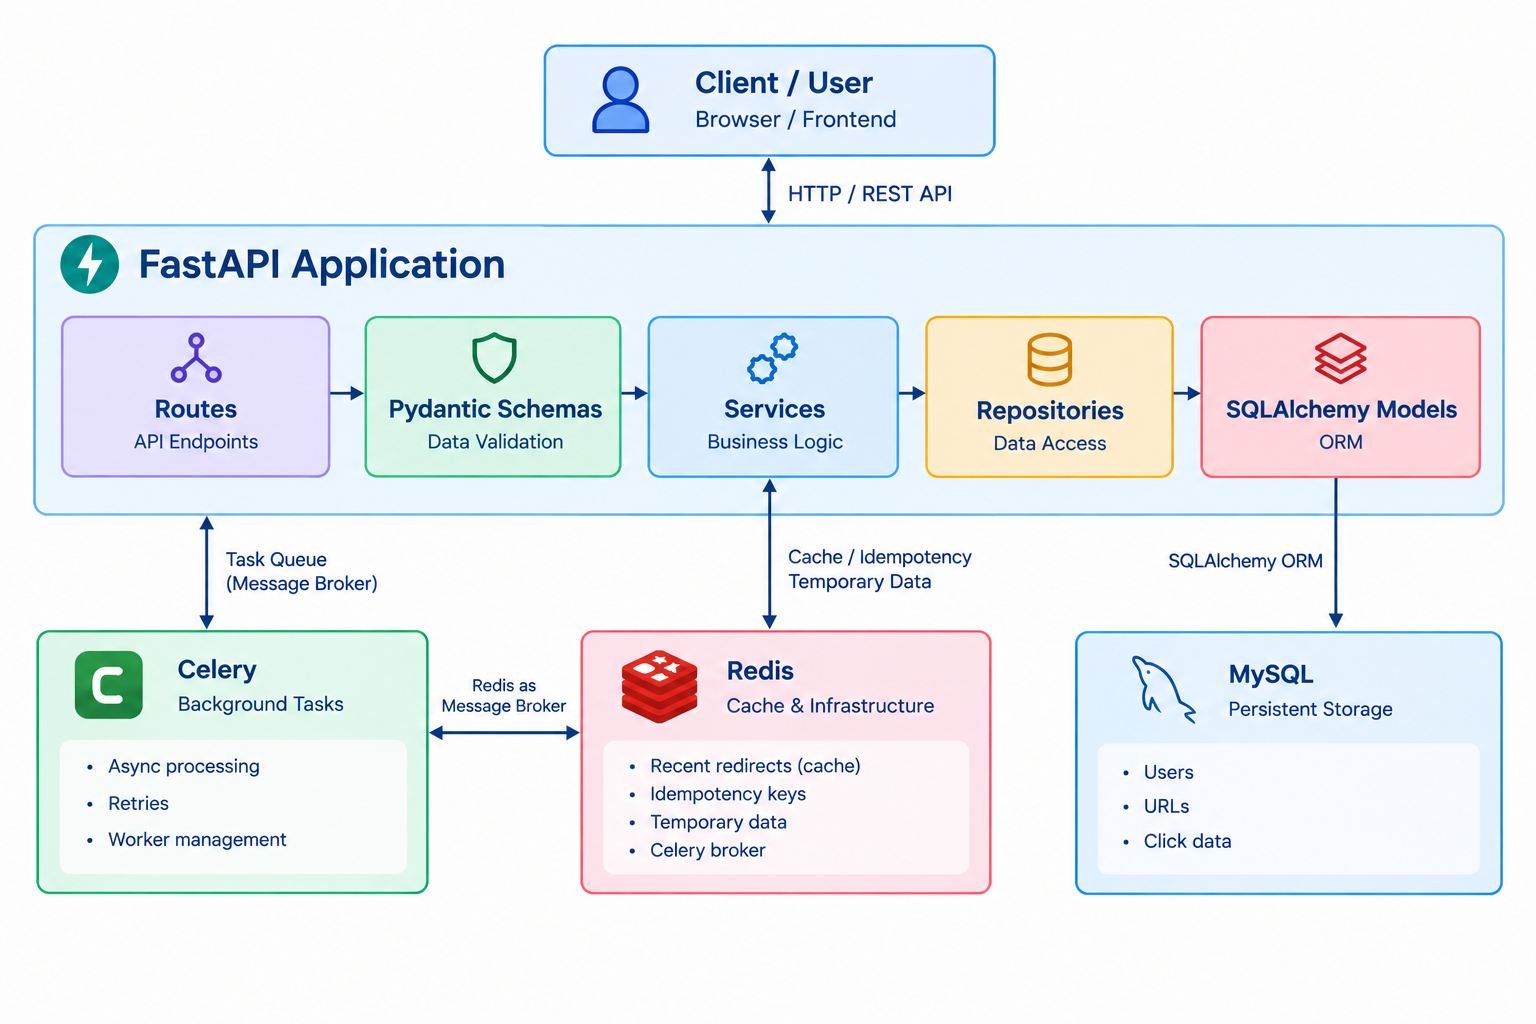
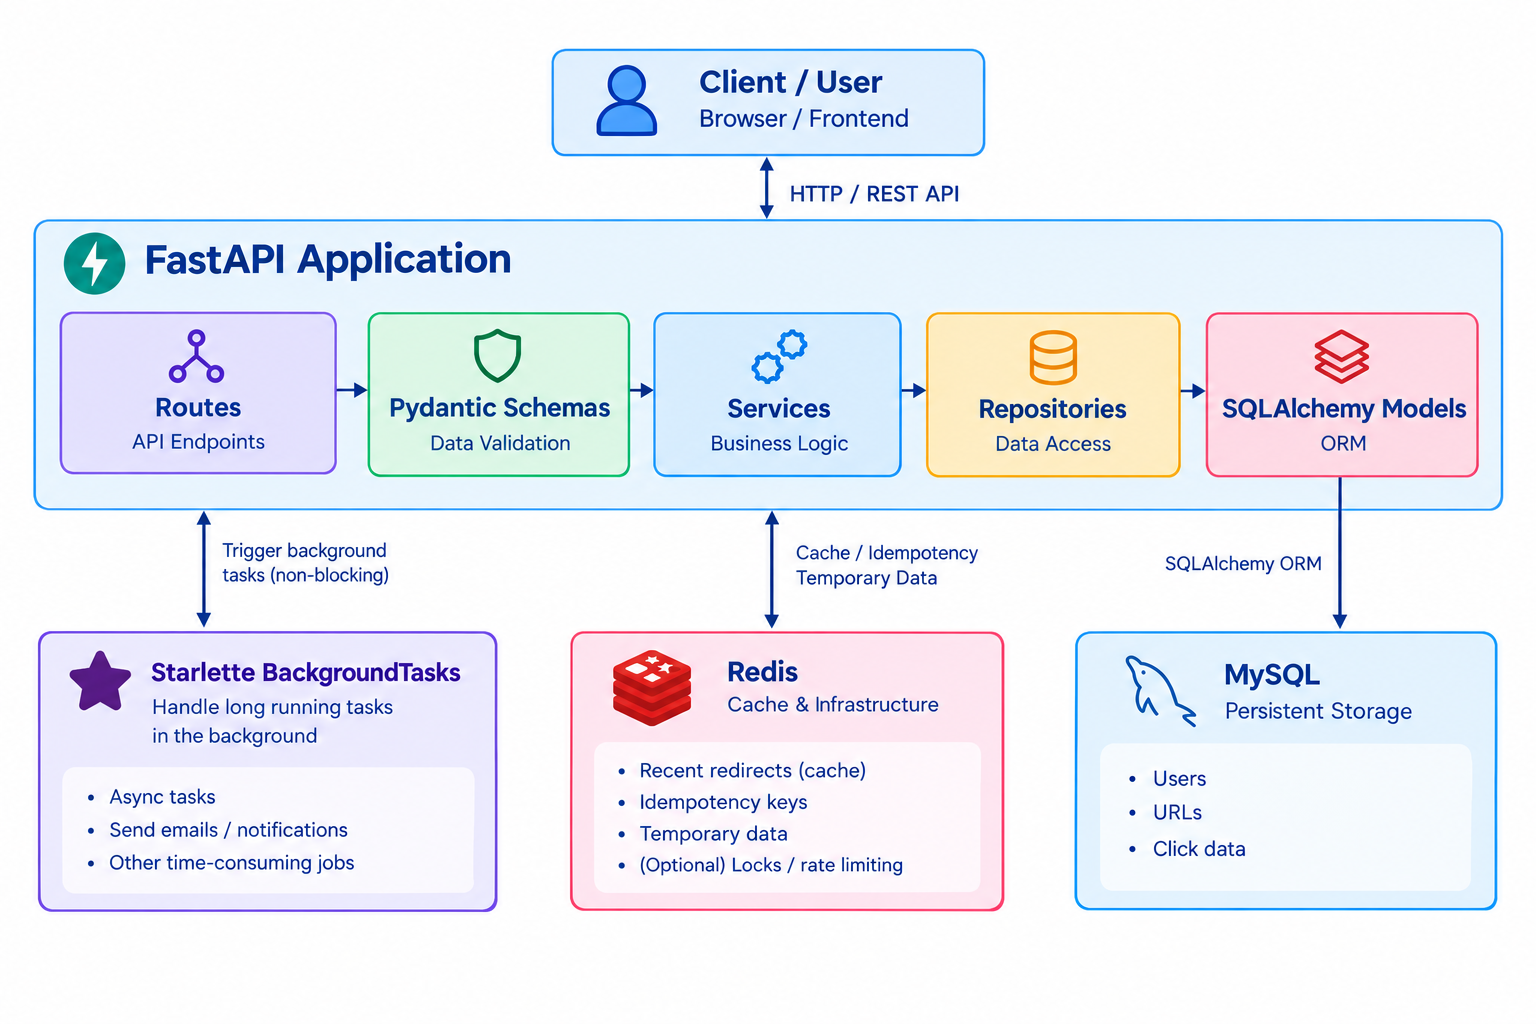
Update README.md and Architecture

diff --git a/README.md b/README.md
@@ -6,9 +6,9 @@ URL shortener is a project built with FastAPI, SQLAlchemy and Redis, with Celery
 
 - Create short URLs from long original URLs (Even without login)
 - JWT-based authentication
-- View and delete URLs belonging to authenticated user
-- Track click counts and analytics of authenticated user
-- Redirect users from a short code to the corresponding original URL quickly without waiting for click record insertion
+- View, activate and deactivate URLs belonging to authenticated user
+- Track click counts and analytics of URLS created by authenticated user
+- Redirect users from a short code to the corresponding original URL quickly without waiting for click record insertion (Only if active)
 
 ## Tech Stack
 
@@ -24,14 +24,13 @@ URL shortener is a project built with FastAPI, SQLAlchemy and Redis, with Celery
 
 - **ID Generation** — Twitter Snowflake style algorithm that combines UNIX timestamp and sequence number. (Can include workerid for distributed servers)
 - **ShortCode Generation** — Uses Base-62 Encoding technique to create short codes since it ensures uniqueness, keeps the length minimum and saves storage.
-- **Data Validation** — Validates the incoming long urls to check if they are in proper format and follow standard HTTP & HTTPS protocols. 
+- **Data Validation** — Validates the incoming long urls to check if they are in proper format and follow standard HTTP & HTTPS protocols.
 - **Authentication** — Uses JWT authentication technique that securely stores the token in a HttpOnly cookie with a limited expiry time.
 - **Database Integrity** — Ensures database integrity by adding unique constraint for (user_id, original_url) combination to ensure no duplicate urls are stored corresponding to a user, handling concurrency.
 - **Idempotency** — Redis-based idempotency keys with TTL to prevent processing duplicate short url creation requests.
 - **Caching** — Redis-based caching for fetching original url corresponding to a short url with minimum latency.
 - **Background processing** — Handles background tasks like creating click records and incrementing count with FastAPI BackgroundTasks class. (Can move to celery for heavy processing)
 - **Asynchronous task execution** — Executes the redirect requests asynchronously to avoid blocking the event loop.
-
 
 ## Setup
 
@@ -49,8 +48,6 @@ python -m pip install -r requirements.txt
 ```
 
 3. Create and configure the variables in `.env` file as specified in .env.example.
-
-
 4. Start the uvicorn ASGI server.
 
 ```bash
